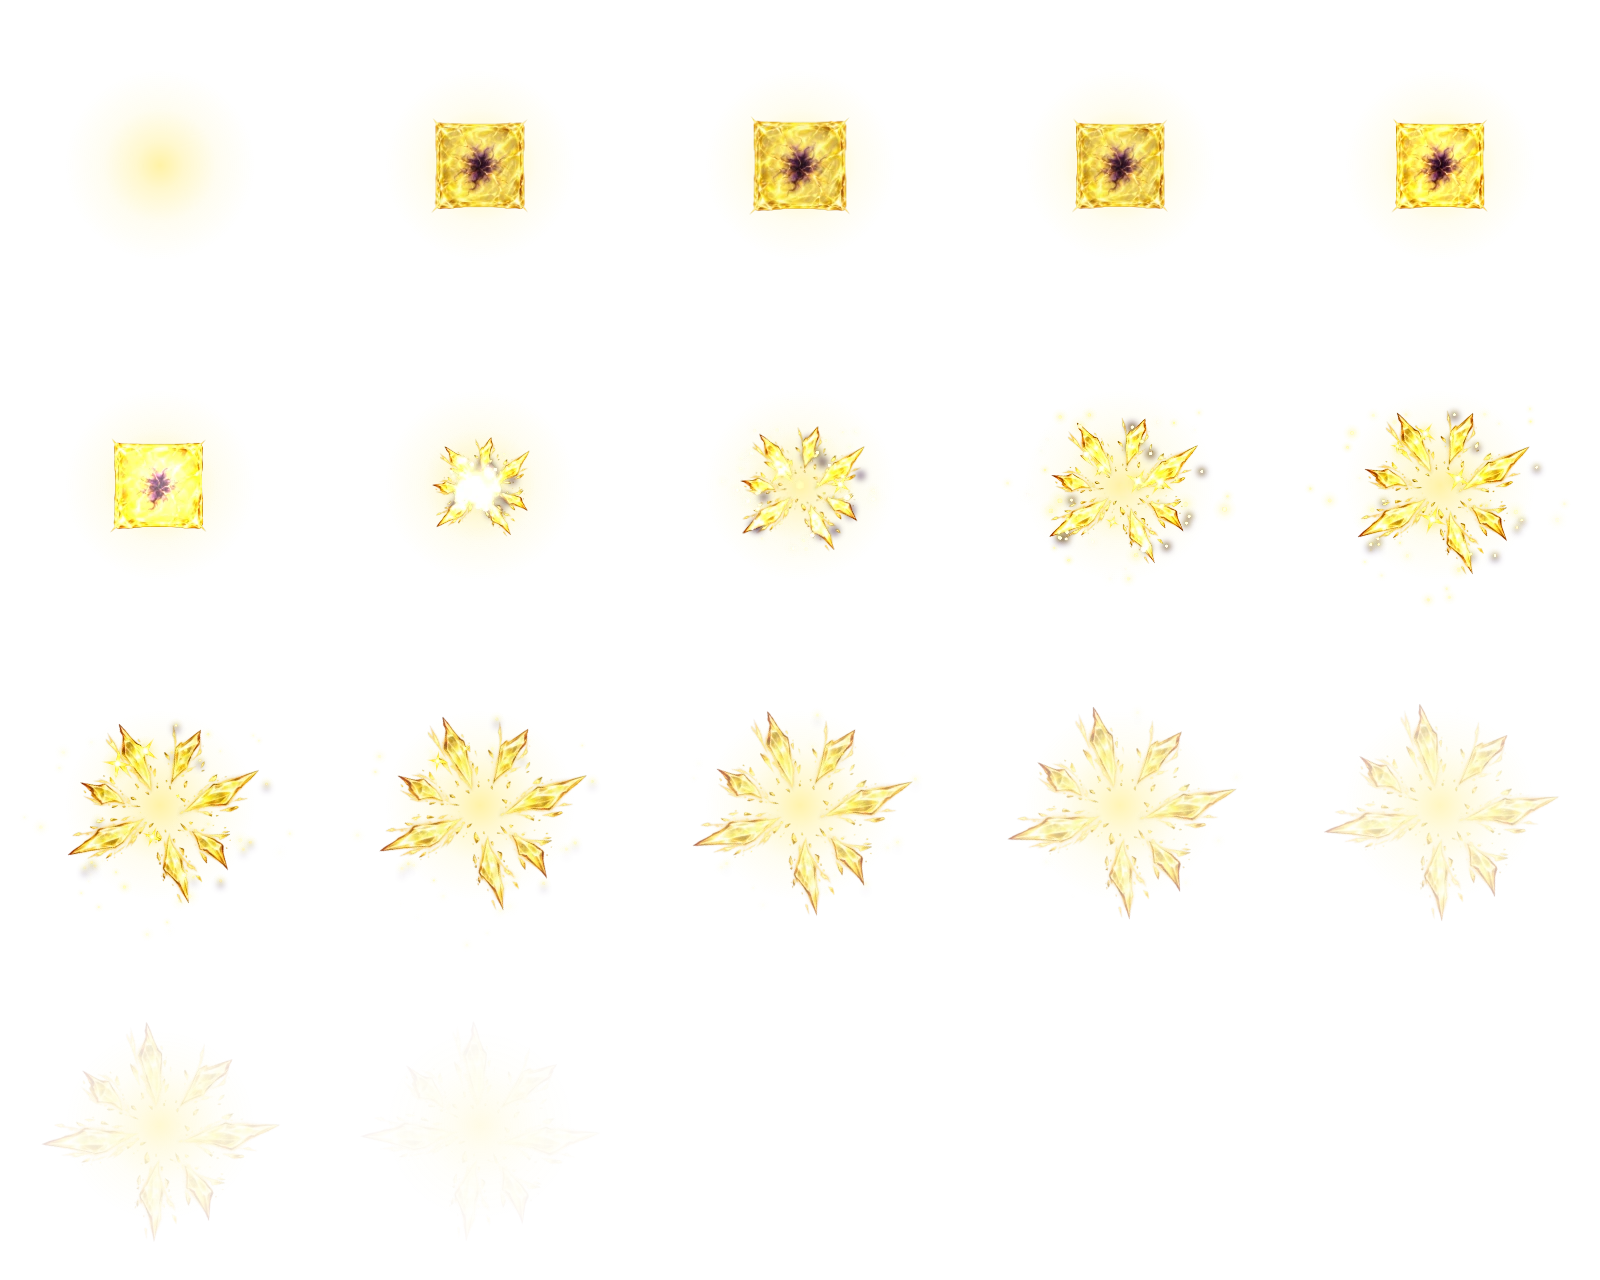
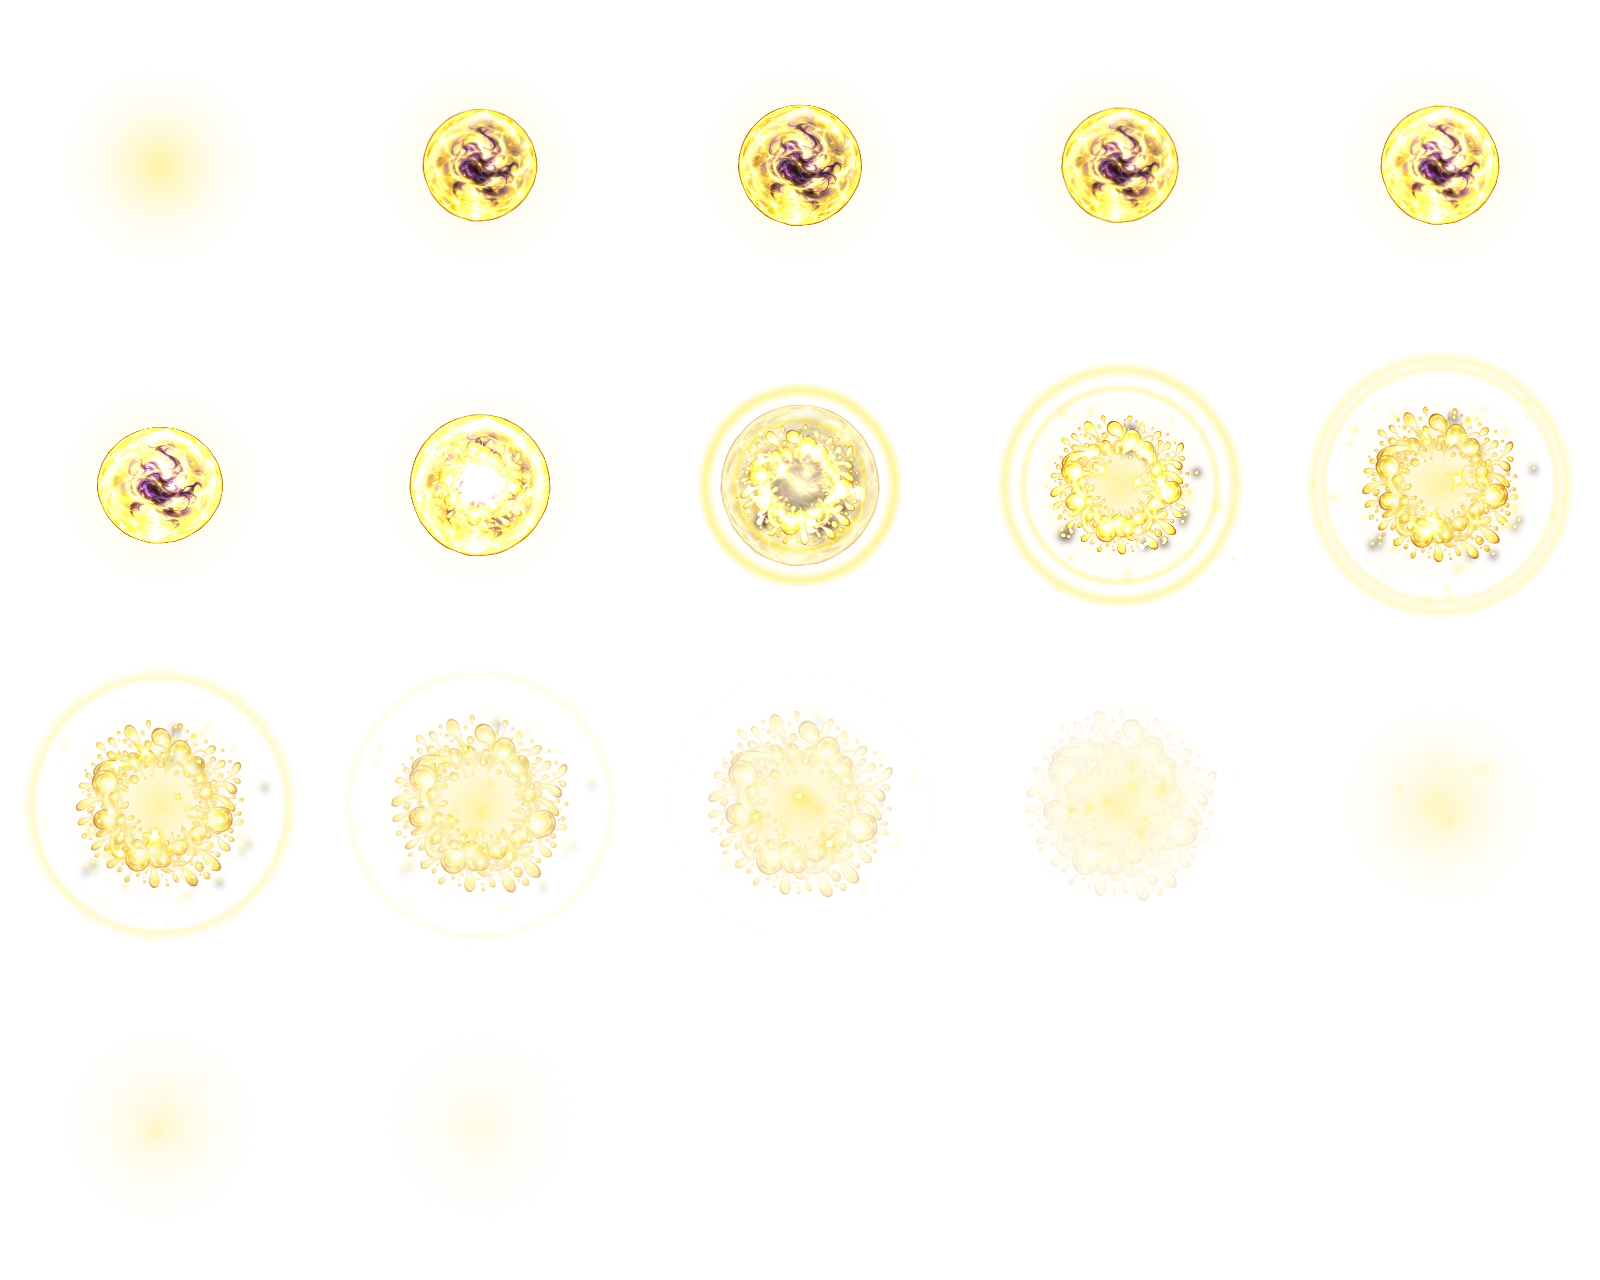
Warder: no lasting shield picture, cleanse is a round light bubble
Shields from 막 · 장막 · 결계 show only the cast effect: the gold ring overlay
and its loop are gone (blue shield timer and blue HP stay). Cleanse now wraps
the target in a Codex yellow light bubble that pops into round beads and two
round shock rings instead of a square glass pane and shards.
Also pins the settle date in two classgear tests that broke once today fell
in the NEXT week.

diff --git a/src/battle/board.ts b/src/battle/board.ts
@@ -16,7 +16,6 @@ import { NAMED, SPECS, type SpecGroup } from '../data/specials';
 import { bossTarget, areaRadius, focusOrder, hexDist, ORDER_NUM, busterOn, slotKey, type Telegraph, type TelKind, type Unit } from '../engine';
 import type { TotemKind } from '../engine/types';
 import type { HeroKey } from '../data/heroes';
-import { absorbLeft, HEALER_SHIELD } from '../engine/abilities';
 import { asleep, CONSTELLATION, starMax, starsNow } from '../engine/astro';
 import { raining } from '../engine/shaman';
 import { sealed } from '../engine/warder';
@@ -1289,7 +1288,7 @@ function putStand(key: string, artName: string, x: number, y: number, r: number,
   return true;
 }
 /**
- * 판 위 지속 그림 위에서 계속 도는 루프 (2026-10-19 Lim 「지속 이펙트는 루프로 유지되게, 이미지만 유지되는 게 아닌」: 쉼터 · 이끼 · 성역 · 바다 샘 · 안개 장판 · 성채 · 초신성 · 떠도는 안개 · 결계 · 별의 잠).
+ * 판 위 지속 그림 위에서 계속 도는 루프 (2026-10-19 Lim 「지속 이펙트는 루프로 유지되게, 이미지만 유지되는 게 아닌」: 쉼터 · 이끼 · 성역 · 바다 샘 · 안개 장판 · 성채 · 초신성 · 떠도는 안개 · 별의 잠. 결계사 보호막은 걸 때 이펙트만).
  * 그림과 같은 가운데 · 같은 층에 그림 한 변 × logical / 62 크기 (루프 좌표 1 = 그림 한 변의 반, scripts/vfx 각 직업 파일). phase = 초 어긋남 (칸마다 박자가 겹치지 않게). 시각 효과 줄이기면 안 그림
  */
 function putArtLoop(pool: SpritePool, key: PxfKey, x: number, y: number, side: number, alpha: number, phase = 0): void {
@@ -1314,14 +1313,14 @@ const HERO_BOARD_ART: Partial<Record<HeroKey, string[]>> = {
   shaman: ['board-totem-spring', 'board-totem-earth', 'board-totem-spring-aura', 'board-totem-earth-aura', 'board-totem-rain', 'board-sea-spring'],
   monk: ['board-mist', 'board-mist-pool'],
   astrologer: ['board-star', 'board-star-mark', 'board-star-sleep', 'board-supernova'],
-  warder: ['board-seal', 'board-barrier', 'board-citadel'],
+  warder: ['board-seal', 'board-citadel'],
 };
 /**
  * 칸 위에 얹는 그림의 그려진 부분 (192px 그림 중 폭 · 높이 비율, 80 5장 납품본을 잼). 판 가장자리에서 크기를 줄일 때 씀 (비율은 그대로)
  */
 const HERO_ART_BOX: Record<string, [number, number]> = {
   'board-totem-rain': [1, 0.65], // 2026-10-18 Codex로 다시 그림: 구름만 (Lim 「물방울은 이미지에서 제거하고 구름만, 이펙트로 비를 표현」)
-  'board-mist': [0.98, 0.49], 'board-seal': [0.85, 0.96], 'board-barrier': [0.79, 1],
+  'board-mist': [0.98, 0.49], 'board-seal': [0.85, 0.96],
   'board-star-mark': [0.99, 0.79], 'board-star': [0.8, 0.96], 'board-star-sleep': [0.79, 1], // 결계 · 별의 잠 · 별자리 표식은 2026-10-16 굵게 다시 그림 (89)
 };
 /** 점성술사 모으는 별 (80 5장 board-star): 별 n개 자리 (칸 반지름 배, 대상 칸 가운데 기준). 차례로 선을 이음 */
@@ -1715,14 +1714,10 @@ export function render(now: number): void {
       const d = hold.d, melt = d.absorb ? Math.max(0, Math.min(1, (d.absorbLeft ?? 0) / Math.max(1, d.absorb * F.dmgMult))) : 1, k = d.swell ? Math.min(1.95, 1.35 + 0.15 * (d.stack ?? 1)) : 1.9;
       statusArt.put(hold.tex, x, y, r * k, r * k, (0.45 + 0.55 * melt) * (d.left < 2 ? 0.6 + 0.4 * pulse : 1));
     }
-    // 힐러 직업 4종 (80 5장): 떠도는 안개 = 발밑 옅은 안개 고리 · 결계사 보호막 = 칸을 감싼 금빛 막 (끝나기 2초 전 깜빡임) · 별의 잠 = 칸을 덮는 별빛 고치
+    // 힐러 직업 4종 (80 5장): 떠도는 안개 = 발밑 옅은 안개 고리 · 별의 잠 = 칸을 덮는 별빛 고치.
+    // 결계사 보호막 (막 · 장막 · 결계)은 걸 때 이펙트만, 걸린 동안 칸을 감싸는 금빛 막 · 루프는 없음 (2026-10-19 Lim 「발동 이팩트만 나오고 유지되는 이펙트는 제거」, 보호막 원 · 파란 체력은 그대로)
     const mist = u.hots.find(h => h.key === 'wanderMist' && h.left > 0);
     if (mist) { const side = heroArt(statusArt, 'board-mist', `hero-mist${u.id}`, x, y + r * 0.55, r * 1.5, mist.left < 2 ? 0.35 + 0.35 * pulse : 0.7); putArtLoop(statusArt, 'monk-mist-loop', x, y + r * 0.55, side, mist.left < 2 ? 0.5 + 0.5 * pulse : 1, u.id * 0.37); }
-    if (F.hero === 'warder' && absorbLeft(F, u) > 0) {
-      const left = Math.max(0, ...u.mods.filter(m => m.k === 'absorb' && m.src === HEALER_SHIELD).map(m => m.until - F.t));
-      const side = heroArt(statusArt, 'board-barrier', `hero-barrier${u.id}`, x, y, r * 2.06, left < 2 ? 0.4 + 0.45 * pulse : 0.85);
-      putArtLoop(statusArt, 'warder-barrier-loop', x, y, side, left < 2 ? 0.5 + 0.5 * pulse : 1, u.id * 0.37);
-    }
     if (asleep(F, u)) { const side = heroArt(statusArt, 'board-star-sleep', `hero-sleep${u.id}`, x, y, r * 2.06, u.sleep! - F.t < 1 ? 0.5 + 0.4 * pulse : 0.9); putArtLoop(statusArt, 'astro-sleep-loop', x, y, side, u.sleep! - F.t < 1 ? 0.5 + 0.5 * pulse : 1, u.id * 0.37); }
     // 어둠물에 잠긴 사람: 칸 아래 40%가 물에 잠김 (물 높이가 출렁) · 받는 치유 −50%
     if (tideSet.has(u.cell)) {

diff --git a/src/battle/pxf.ts b/src/battle/pxf.ts
@@ -140,7 +140,6 @@ export const PXF = {
   'warder-hold': skill(20, 92, { size: 320 }),
   'warder-judgment': skill(18, 88, { size: 288 }),
   'warder-citadel-loop': loop(36, 84, 12, 256),
-  'warder-barrier-loop': loop(36, 74, 12, 256),
   // 모든 효과 PXF 1단계 (requests.md): 전투 공통 효과 (회색 그림은 색을 곱함)
   'common-hit': small(11, 74),
   'common-crit': small(12, 66),
@@ -245,7 +244,7 @@ export const heroSkillFx = (hero: HeroKey): PxfKey[] =>
 export const HERO_LOOP_FX: Partial<Record<HeroKey, PxfKey[]>> = {
   priest: ['priest-shelter-loop'], druid: ['druid-moss-loop'], paladin: ['paladin-beacon-loop', 'paladin-sanctuary-loop'],
   shaman: ['shaman-spring-loop', 'shaman-earth-loop', 'shaman-rain-loop', 'shaman-sea-loop'], monk: ['monk-pool-loop', 'monk-mist-loop'],
-  astrologer: ['astro-nova-loop', 'astro-sleep-loop'], warder: ['warder-citadel-loop', 'warder-barrier-loop'],
+  astrologer: ['astro-nova-loop', 'astro-sleep-loop'], warder: ['warder-citadel-loop'],
 };
 /** 루프 클립이면 지금 시각 (초)의 프레임 */
 export const loopFrame = (c: PxfClip, sec: number): number => ((Math.floor(sec * c.fps) % c.frames) + c.frames) % c.frames;

diff --git a/tests/classgear.test.ts b/tests/classgear.test.ts
@@ -128,7 +128,7 @@ describe('레이드 · 주간 보상도 캐릭터 것', () => {
     expect(raidLootOpen(G.save, 'abyss1', '보통')).toBe(true);
   });
   it('공훈과 주 상한은 캐릭터마다 (새 캐릭터는 0부터, 돌아오면 그대로)', () => {
-    settle(G.save, result(), () => 0.5);
+    settle(G.save, result(), () => 0.5, [], MON); // 정산 시각을 MON으로 (오늘 날짜로 정산하면 MON과 다른 주가 되어 돌아올 때 주 상한이 새로 시작함)
     const got = G.save.weekly.merit[10], n = G.save.wallet.merit;
     expect(n).toBeGreaterThan(0);
     makeChar('druid', '', MON);
@@ -138,7 +138,7 @@ describe('레이드 · 주간 보상도 캐릭터 것', () => {
     expect([G.save.wallet.merit, G.save.weekly.merit[10]]).toEqual([n, got]);
   });
   it('다음 주에 돌아오면 공훈은 남고 주 상한만 새로', () => {
-    settle(G.save, result(), () => 0.5);
+    settle(G.save, result(), () => 0.5, [], MON);
     const n = G.save.wallet.merit;
     makeChar('druid', '', MON);
     pickChar(1, NEXT);

diff --git a/src/art/pxf/requests.md b/src/art/pxf/requests.md
@@ -87,7 +87,7 @@ Lim 「직업별 스킬별로 이펙트가 달라야 하는데 중복되는 게 
 | priest-shelter-loop | 판 위 쉼터 천막 루프: 숨 쉬는 입구 별빛 · 바닥 고리 · 천막 위로 피어오르는 금빛 가루 · 꼭대기 반짝임 | druid-moss-loop | 판 위 이끼 자리 루프: 숨 쉬는 이끼 빛 · 이끼에서 흔들리며 떠오르는 반딧불 포자 · 꽃 반짝임 |
 | paladin-sanctuary-loop | 판 위 성역 돔 루프: 돔을 훑는 빛 띠 · 바닥 고리 · 돔 안에서 피어오르는 금빛 가루 · 선돌 반짝임 | shaman-sea-loop | 판 위 바다 샘 루프: 물기둥 끝에서 솟았다 떨어지는 물방울 · 샘 둘레 잔물결 · 물빛 알갱이 |
 | monk-pool-loop | 판 위 안개 장판 루프: 고인 안개 둘레를 도는 비취빛 덩이 · 안개 끝에서 피어오르는 알갱이 | monk-mist-loop | 떠도는 안개가 걸린 칸 발밑 고리 루프: 고리를 따라 도는 비취빛 둘 · 안개 끝 알갱이 |
-| warder-citadel-loop | 판 위 성채 루프: 숨 쉬는 창 · 성문 빛 · 성 아래 노란 결계 고리 · 첨탑 반짝임 | warder-barrier-loop | 결계사 보호막이 걸린 칸 금빛 고리 루프: 고리를 따라 꼬리를 끌며 도는 흰 빛 점 둘 · 막 안쪽 빛 가루 |
+| warder-citadel-loop | 판 위 성채 루프: 숨 쉬는 창 · 성문 빛 · 성 아래 노란 결계 고리 · 첨탑 반짝임 | | |
 | astro-nova-loop | 판 위 초신성 루프: 숨 쉬는 별 보석 · 천천히 도는 빛살 넷 · 둘레를 도는 별빛 | astro-sleep-loop | 별의 잠에 든 칸 별빛 고치 루프: 고치 둘레를 도는 흰 별빛 셋 · 초승달 · 별 반짝임 · 보랏빛 별가루 |
 | monk-wrap | 몸을 비스듬히 감아 도는 굵은 비단 리본 (Codex 비취 비단 리본) | monk-mist | 머리 위에 떠 흘러가며 빛 방울을 흩뿌리는 상서구름 (Codex 비취 상서구름) |
 | monk-breath | 발밑에서 훅 뿜어져 양옆 칸까지 낮게 깔리는 상서구름 (Codex 비취 상서구름) | monk-clear | 위에서 아래로 번쩍 내리긋는 기 칼날 셋 (Codex 비취 기 칼날) |
@@ -98,7 +98,7 @@ Lim 「직업별 스킬별로 이펙트가 달라야 하는데 중복되는 게 
 | astro-sleep | 세로로 긴 별빛 고치와 위에 뜬 초승달 (Codex 고치 · 초승달) | astro-memory | 한 바퀴 도는 시계 바늘 (끝에 별) (Codex 금빛 바늘) |
 | astro-polaris | 위에서 내려와 커졌다가 작은 별들로 터지는 큰 네 갈래 별 (Codex 북극성) | warder-seal | 머리 위에 엇갈려 그어지는 X자 인장 (Codex X자 인장) |
 |  |  | warder-barrier | 몸 앞을 둥글게 감싸는 얇은 빛 막과 흐르는 물결 결 (Codex 빛 막) |
-| warder-cleanse | 깨져 사방으로 흩어지는 유리 조각 (Codex 유리판 · 조각) | warder-circle | 빛 점이 발밑에 그려 닫는 원 문양과 여섯 꽃잎 호 (Codex 원 문양) |
+| warder-cleanse | 퐁 터져 둥근 빛 구슬로 퍼지는 빛 방울 (Codex 빛 방울 · 빛 구슬 터짐, 2026-10-19 둥글게) | warder-circle | 빛 점이 발밑에 그려 닫는 원 문양과 여섯 꽃잎 호 (Codex 원 문양) |
 | warder-guard | 가로 · 세로 빛 띠로 그려지는 지구본 같은 둥근 결계 (Codex 빛 띠 지구본) | warder-veil | 발밑에서 솟아오르는 주름진 빛 장막 (Codex 장막) |
 |  |  | warder-judgment | 몸 위에서 네 갈래 빛줄기로 풀려 오르는 마름모 인장 (Codex 마름모 인장) |
 
@@ -202,7 +202,7 @@ Lim 「직업별 스킬별로 이펙트가 달라야 하는데 중복되는 게 
 | sealHeal 인장 치유 | warder-seal | 대상 칸 | **모양: 머리 위에 엇갈려 그어지는 X자 인장.** 머리 위에 굵은 상아빛 두 획이 차례로 엇갈려 그어지고 가운데에 작은 마름모가 반짝인 뒤 빛 점이 아래로 떨어짐. 고리 · 팔각 문양 금지 (기원 · 보호의 손과 겹침). 20프레임, 맞는 순간 4 |
 | quickSeal 빠른 인장 | warder-quick | 대상 칸 | **모양: 위에서 쿵 찍히는 네모 도장.** 네모 도장이 위에서 빠르게 내려와 몸에 쿵 찍히고 (가운데 옅은 네모 자국) 양옆으로 네모 먼지가 튐. 16프레임, 맞는 순간 3 |
 | lightBarrier 빛의 막 | warder-barrier | 대상 칸 | **모양: 몸 앞에 세워지는 네모 유리판과 비스듬한 반사광.** 세로로 긴 네모 테두리 유리판이 커지며 세워지고, 비스듬한 반사광 한 줄이 판을 훑고 모서리에 작은 십자 반짝임. 안은 비워 몸이 보이게. 반구 막 · 둥근 방패 금지 (성역 · 파티원 방어와 겹침). 22프레임, 맞는 순간 4 |
-| wardCleanse 결계 정화 | warder-cleanse | 대상 칸 | **모양: 깨져 사방으로 흩어지는 유리 조각.** 네모 유리판이 잠깐 보였다가 3프레임에 깨져 큰 유리 조각 다섯이 돌며 바깥으로 흩어지고 어두운 티끌이 튐. 고리 · 물방울 금지 (공통 해제 · 정화와 겹침). 18프레임, 맞는 순간 3 |
+| wardCleanse 결계 정화 | warder-cleanse | 대상 칸 | **모양: 퐁 터져 둥근 빛 구슬로 퍼지는 빛 방울.** (2026-10-19 Lim 「사각형 각진것을 둥글게 다시 표현」: 예전 네모 유리판 · 유리 조각을 바꿈) 어두운 기운이 갇힌 노란 빛 방울이 몸을 감싸 흔들리며 금이 번지다 퐁 터지고, 둥근 충격파 고리 둘 · 둥근 빛 구슬 고리가 퍼지며 어두운 티끌이 노란 빛가루로 타 사라짐. 모서리 · 직선 · 물방울 · 거품 금지 (공통 해제 · 파티원 치유와 겹침). 18프레임, 맞는 순간 6 |
 | wardCircle 결계 원 | warder-circle | 범위 칸마다 | **모양: 네 모서리에 솟는 빛 말뚝.** 칸 네 모서리 (앞 둘 · 뒤 둘)에서 빛 말뚝이 차례로 솟고 그 사이 바닥이 네모로 은은히 빛남. 여러 칸 동시라 가볍게. 바닥 고리 · 원형 무늬 금지 (기원 · 공통 장판과 겹침). 20프레임, 맞는 순간 4 |
 | guardWard 수호 결계 | warder-guard | 대상 칸 | **모양: 몸 둘레를 도는 작은 네모 방패 셋.** 작은 네모 방패 셋이 몸 둘레를 납작한 타원으로 돌고, 처음에 가운데 네모 테두리가 한 번 번쩍임. 둥근 방패 · 거품 금지 (파티원 방어 · 성역과 겹침). 22프레임, 맞는 순간 3 |
 | lightVeil 빛의 장막 | warder-veil | 범위 칸마다 | **모양: 아래부터 층층이 쌓이는 가로 빛 띠 셋.** 가로로 긴 빛 띠 셋이 아래에서 위로 차례로 펼쳐져 쌓이고 사이로 빛 점이 천천히 떠오름. 위에서 내려오는 커튼 · 세로 주름 금지 (보스 정적과 겹침). 24프레임, 맞는 순간 5 |

diff --git a/scripts/vfx/README.md b/scripts/vfx/README.md
@@ -25,7 +25,7 @@ npx vite build && npm run fx:shot -- warder --sheet .sim/vfx-shots/warder.png --
 
 - `size` (선택): 프레임 크기, 기본 224. 작고 자주 뜨는 공통 효과는 192 (`battle/pxf.ts` `small()`). Codex 그림이 주인공이라 224에서 뭉개지면 320 · 384 (성기사 봉화 · 정화 · 봉화 고리, 2026-10-18 Lim 「불모양 이미지 퀄리티가 너무 낮다」), 띠 한 줄은 2048px 안 (`pxf.ts` `skill(…, { size })` · `loop(…, size)`).
 - `loop` · `fps` (선택): 판 위 물건이 서 있는 동안 계속 도는 루프 (마지막 장 다음이 첫 장, 굽기가 마지막 장을 비우지 않음). `t` = 장 번호 ÷ 장 수라 사인 · 입자 시간은 한 바퀴에 정수 번 돌게 (`frac` · `wave`). 게임은 `pxf.ts` `loop(frames, logical, fps)` + `HERO_LOOP_FX` (그 직업 전투에서만 읽음), `board.ts` 선 물건 (`TOTEM_LOOK.loop`)이 그림 위 · 이름 아래에 그림. 예: 주술사 샘 · 대지 토템 `shaman-spring-loop` · `shaman-earth-loop` (토템 그림 크기 `TOTEM_STAND` = `shaman.mjs` `TOTEM`).
-- 판 위 지속 그림 (쉼터 · 이끼 · 성역 · 바다 샘 · 안개 장판 · 성채 · 초신성 · 떠도는 안개 · 결계 · 별의 잠)도 그림만 두지 않고 루프를 겹친다 (2026-10-19 Lim 「지속 이펙트는 루프로 유지되게, 이미지만 유지되는 게 아닌」). `board.ts` `putArtLoop`: 그림 가운데 · 그림 한 변 × logical ÷ 62, 루프 좌표 1 = 그림 한 변의 반. 공통 도우미 `lib.mjs` `loopRise` (떠오르는 가루) · `loopGlints` (자리마다 반짝임) · `loopOrbit` (타원을 도는 빛 점). 새 지속 그림도 루프와 함께 (`HERO_LOOP_FX`에 등록).
+- 판 위 지속 그림 (쉼터 · 이끼 · 성역 · 바다 샘 · 안개 장판 · 성채 · 초신성 · 떠도는 안개 · 별의 잠)도 그림만 두지 않고 루프를 겹친다 (2026-10-19 Lim 「지속 이펙트는 루프로 유지되게, 이미지만 유지되는 게 아닌」). 결계사 보호막 (막 · 장막 · 결계)은 예외로 걸 때 이펙트만, 걸린 동안 그림 · 루프 없음 (같은 날 Lim 「발동 이팩트만 나오고 유지되는 이펙트는 제거」). `board.ts` `putArtLoop`: 그림 가운데 · 그림 한 변 × logical ÷ 62, 루프 좌표 1 = 그림 한 변의 반. 공통 도우미 `lib.mjs` `loopRise` (떠오르는 가루) · `loopGlints` (자리마다 반짝임) · `loopOrbit` (타원을 도는 빛 점). 새 지속 그림도 루프와 함께 (`HERO_LOOP_FX`에 등록).
 - `gray` · `sample` (선택): 회색 단계로만 그림 → 게임이 종류 색을 곱함 (치유 빛 · 쓰러짐 · 디버프 · 장비 발동). 굽기가 색이 섞이면 멈추고, 검수 시트는 `sample` 색을 곱해 보여 줌.
 - `frames`: 24fps 한 번 재생 장 수 (11–24). **첫 프레임 = 스킬이 들어간 순간**이라 0장째부터 크게 보여야 함 (서서히 나타나는 앞부분 없음). 마지막 장은 굽기가 비움.
 - `logical`: 기준 칸 62일 때 그림 지름. 한 명 대상 80–100 (칸 밖까지 빛이 번짐), 범위 · 파티 · 칸마다 기록되는 것 70–84.
